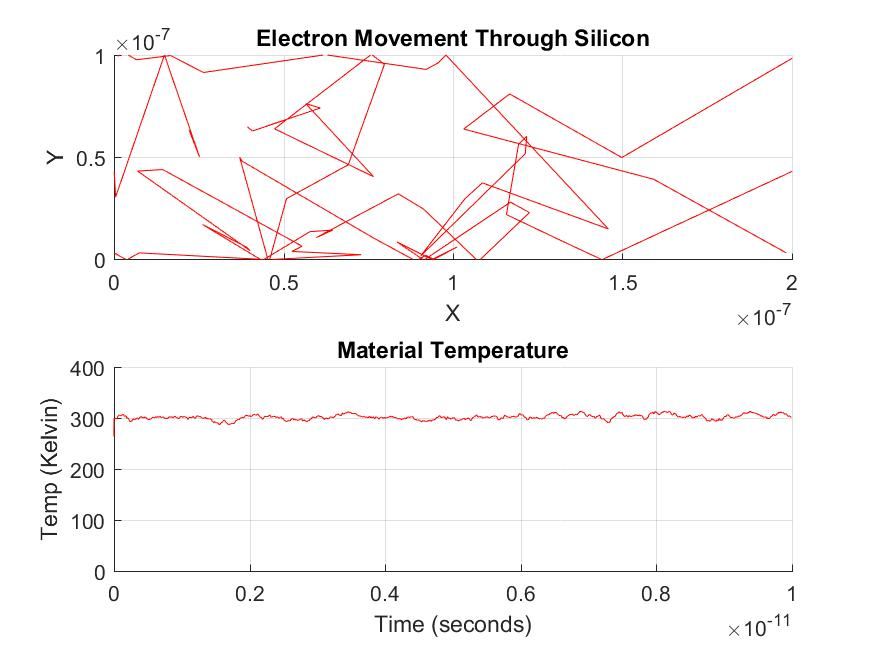
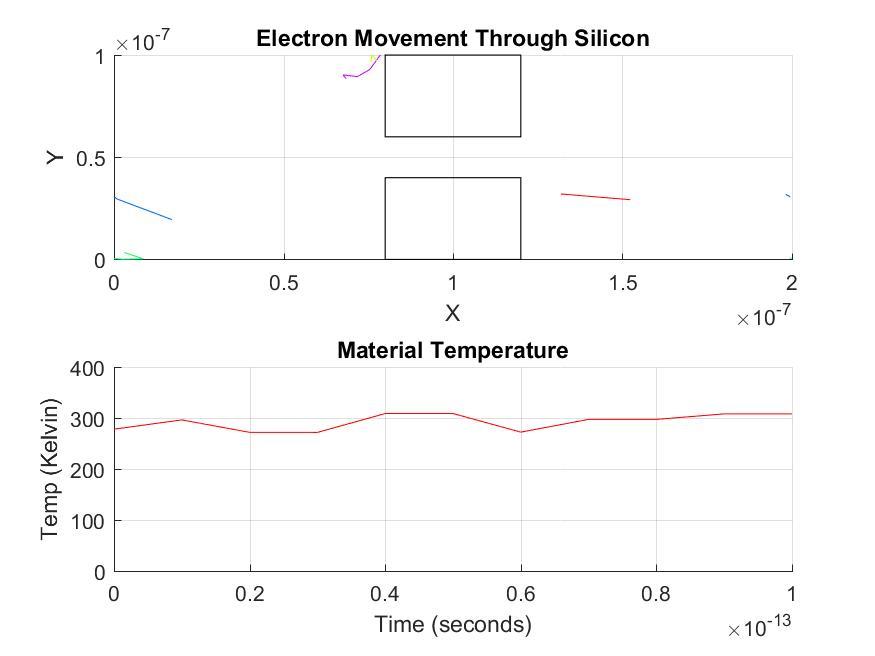
q3 not fin

diff --git a/Assignment1/electronModelingQ3.m b/Assignment1/electronModelingQ3.m
@@ -8,7 +8,8 @@ global Vx Vy x y xp yp xi yi Vxi Vyi Collisions
 global numElect MarkerSize
 global Mass T SavePics
 
-numElect = 50;
+numElect = 10;
+numSteps = 10;
 SavePics = 1;               %used at the end to save graphs on a 1, and not on a 0
 
 len = 200e-9;
@@ -27,13 +28,12 @@ Mass = 0.26*C.Mo;
 k = 1.381 * 10 ^-23;
 vth = sqrt(2*(C.kb*T)/(Mass));      %vth = 1.8702e5
 dt = 10e-15;                        %10fs
-TStop = 1000*dt;
+TStop = numSteps*dt;
 
 Prob = 1 - exp(-dt/.2e-12);         %probbility to interact with the backgorund
-%L = log(1 - Prob);                 %mean free path?
-%Lambda = L/diffL
+fprintf("The proability to scatter is %g \n", Prob);
 
-Limits = [0 len 0 wid];             %the drawing limits of the material simulated
+Limits = [0 (len)  0 (wid)];        %the drawing limits of the material simulated
 MarkerSize = 1;
 
 for i = 1:numElect                  %initialize the position of each electron
@@ -111,7 +111,7 @@ Temp = [300 avgTemp];
 Time = [0 t];
 plot(t, avgTemp, '-');
 
-numVisable = 20;                    %This sets the amount of visable electrons
+numVisable = 5;                    %This sets the amount of visable electrons
 colorVec = hsv(numVisable);
 tempSum = 0;                        %Reseting some values to zero to ensure
 avgTemp = 0;                        %proper calculations
@@ -122,7 +122,9 @@ sumCollision = 0;                   %initializing some helpers to calculate
 sumCollTime = 0;                    %the average collision time
 numColl = 0;
 
-%rectangle('Position', []);
+subplot(2,1,1);
+rectangle('Position', [wallX 0 4e-8 4e-8]);
+rectangle('Position', [wallX wallH2 4e-8 4e-8]);
 
 while t < TStop                     %Loop to calcualte pos, and temp
     xp(1:numElect) = x(1:numElect);
@@ -142,6 +144,10 @@ while t < TStop                     %Loop to calcualte pos, and temp
            if rand() >= Prob
                xp(i) = 0;
                x(i) = dt * vth * cos(2*pi*randn());
+               Vx(i) = vth * cos(2*pi*randn());
+               if x(i) <=0 || x(i) >= len || x(i)+dt*Vx(i) >= len || x(i)+dt*Vx(i) <= 0
+                    x(i) = xp(i) +dt*Vx(i);
+               end
            else
                xp(i) = 0;
                x(i) = dt * Vx(i);
@@ -153,6 +159,10 @@ while t < TStop                     %Loop to calcualte pos, and temp
            if rand() >= Prob
                xp(i) = x(i) + len;
                x(i) = xp(i) + dt * vth * cos(2*pi*randn());
+               Vx(i) = vth*cos(2*pi*randn()); 
+               if x(i) <= 0 || x(i) >= len || x(i)+dt*Vx(i) >= len || x(i)+dt*Vx(i) <= 0
+                   x(i) = xp(i) + dt*Vx(i);
+               end
            else
                xp(i) =  xp(i) + len;
                x(i) =  xp(i) + dt*Vx(i);
@@ -162,18 +172,33 @@ while t < TStop                     %Loop to calcualte pos, and temp
        %Upper and lower boundries
        if y(i) >= wid || y(i) <= 0
            if rand() >= Prob
-               Vy(i) = - vth * sin(2*pi*randn()); %look at xp/yp
+               Vy(i) = - vth * sin(2*pi*randn());
+               y(i) = yp(i);
+               yp(i) = y(i) - dt*Vy(i);
+               if  y(i) >= wid || y(i) <= 0 || y(i) +dt*Vy(i) >= wid || y(i) +dt*Vy(i) <= 0
+                   Vy(i) = -Vy(i);
+                   y(i) = yp(i);
+                   yp(i) = y(i) - dt*Vy(i);
+               end
            else
-               Vy(i) = - Vy(i);
+               Vy(i) = -Vy(i);
+               y(i) = yp(i);
+               yp(i) = y(i) - dt*Vy(i);
            end
        end
        
        %left side of the boxes
        if ((y(i) <= 4e-8 || y(i) >= 6e-8) && x(i)+dt*Vx(i) >= 8e-8 && x(i) <= 8e-8)
            if rand() >= Prob
+               xt = x(i);
                Vx(i) = - vth * cos(2*pi*randn());
+               x(i) = xp(i) + dt*Vx(i);
+               xp(i) = xt;
                if x(i) + dt*Vx(i) >= 8e-8
+                   xt = x(i);
                    Vx(i) = -Vx(i);
+                   x(i) = xp(i) + dt*Vx(i);
+                   xp(i) = xt;
                end
            else
                 Vx(i) = -Vx(i);
@@ -183,9 +208,15 @@ while t < TStop                     %Loop to calcualte pos, and temp
        %right side of the boxes
        if ((y(i) <= 4e-8 || y(i) >= 6e-8) && x(i)+dt*Vx(i) <= 12e-8 && x(i) >= 12e-8) 
            if rand() >= Prob
+               xt = x(i);
                Vx(i) = - vth * cos(2*pi*randn());
+               x(i) = xp(i) + dt*Vx(i);
+               xp(i) = xt;
                if x(i) + dt*Vx(i) <= 12e-8
+                   xt = x(i);
                    Vx(i) = -Vx(i);
+                   x(i) = xp(i) + dt*Vx(i);
+                   xp(i) = xt;
                end
            else
                Vx(i) = -Vx(i);
@@ -197,7 +228,10 @@ while t < TStop                     %Loop to calcualte pos, and temp
            if rand() >= Prob
                Vy(i) = vth * sin(2*pi*randn());
                if y(i) + dt*Vy(i) >= 6e-8 || y(i) + dt*Vy(i) <= 4e-8
+                   yt = y(i);
                    Vy(i) = -Vy(i);
+                   y(i) = yp(i) + dt*Vy(i);
+                   yp(i) = yt;
                end
            else
                 Vy(i) = - Vy(i);
@@ -241,12 +275,32 @@ while t < TStop                     %Loop to calcualte pos, and temp
     pause(0.00001);
     t = t + dt;
     hold on;
-    subplot(2,1,1);
-    rectangle('Position', [wallX 0 4e-8 4e-8]);
-    rectangle('Position', [wallX wallH2 4e-8 4e-8]);
+    
 end
 
+%electron density using 10% of total area
+xlim = 0.1 * len;
+ylim = 0.1 * wid;
+xbox = (len/xlim);
+ybox = (wid/ylim);
+c(1:xbox,1:ybox) = zeros();
+E = [x(:) y(:)];
 
+%not correct
+for i = 1:numElect
+   for j = 1:xbox
+      for k = 1:ybox
+         if E(i,1) > (j-1)*xlim && E(i,1) <= (2*j-1)*xlim && E(i,2) > (k-1)*ylim && E(i,2) <= (2*k-1)*ylim
+            c(j,k) = c(j,k) + 1;
+         end
+      end
+   end
+end
+
+figure(3);
+X = linspace(0,len,xbox);
+Y = linspace(0,wid,ybox);
+surf(X,Y,c);
 
 %mean free path calculation
 avgx = sum(Vxi - Vx);
